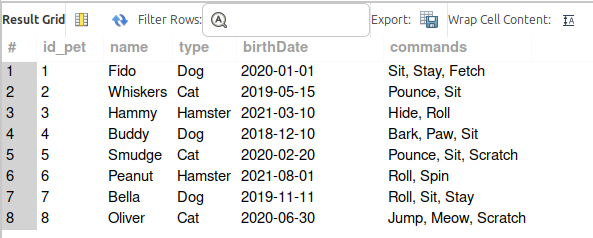
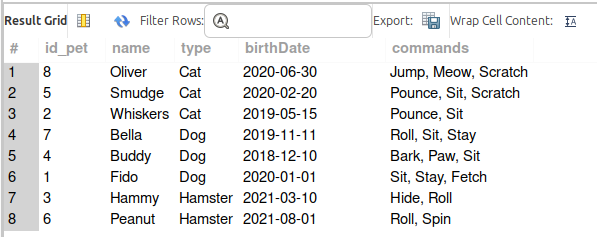
modified:   OOP_MySQL.md 	modified:   image/MySQL/1.png 	modified:   image/MySQL/2.png

diff --git a/OOP_MySQL.md b/OOP_MySQL.md
@@ -26,19 +26,19 @@ USE Human_Friends;
 
 DROP TABLE IF EXISTS Type_Pets;
 CREATE TABLE Type_Pets(
-	id_type_pet INT PRIMARY KEY AUTO_INCREMENT NOT NULL,
+    id_type_pet INT PRIMARY KEY AUTO_INCREMENT NOT NULL,
     type_name VARCHAR(45)
 );
 
 DROP TABLE IF EXISTS Commands_Pets;
 CREATE TABLE Commands_Pets(
-	id_command_pet INT PRIMARY KEY AUTO_INCREMENT NOT NULL,
+    id_command_pet INT PRIMARY KEY AUTO_INCREMENT NOT NULL,
     command_name VARCHAR(45)
 );
 
 DROP TABLE IF EXISTS Pets;
 CREATE TABLE Pets(
-	id_pet INT PRIMARY KEY AUTO_INCREMENT NOT NULL,
+    id_pet INT PRIMARY KEY AUTO_INCREMENT NOT NULL,
     pet_name VARCHAR(45),
     id_type_pet INT NOT NULL,
     birthDate DATE NOT NULL,
@@ -47,7 +47,7 @@ CREATE TABLE Pets(
 
 DROP TABLE IF EXISTS PetsAndComands;
 CREATE TABLE PetsAndComands(
-	id_pet INT NOT NULL,
+    id_pet INT NOT NULL,
     id_command_pet INT NOT NULL,
     PRIMARY KEY (id_pet, id_command_pet), 
     FOREIGN KEY (id_pet) REFERENCES Pets(id_pet),
@@ -59,26 +59,26 @@ CREATE TABLE PetsAndComands(
 
 DROP TABLE IF EXISTS Type_Pack;
 CREATE TABLE Type_Pack(
-	id_type_pack INT PRIMARY KEY AUTO_INCREMENT NOT NULL,
+    id_type_pack INT PRIMARY KEY AUTO_INCREMENT NOT NULL,
     type_name VARCHAR(45)
 );
 
 DROP TABLE IF EXISTS Commands_Pack;
 CREATE TABLE Commands_Pack(
-	id_command_pack INT PRIMARY KEY AUTO_INCREMENT NOT NULL,
+    id_command_pack INT PRIMARY KEY AUTO_INCREMENT NOT NULL,
     command_name VARCHAR(45)
 );
 
 DROP TABLE IF EXISTS PackAndComands;
 CREATE TABLE PackAndComands(
-	id_packs INT NOT NULL,
+    id_packs INT NOT NULL,
     id_commands_packs INT NOT NULL,
     PRIMARY KEY (id_packs, id_commands_packs)
 );
 
 DROP TABLE IF EXISTS Pack_Animals;
 CREATE TABLE Pack_Animals(
-	id_pack INT PRIMARY KEY AUTO_INCREMENT NOT NULL,
+    id_pack INT PRIMARY KEY AUTO_INCREMENT NOT NULL,
     pack_name VARCHAR(45),
     id_type_pack INT,
     birthDate DATE,
@@ -87,7 +87,6 @@ CREATE TABLE Pack_Animals(
 ```
 
 ```
-
 /*
 ***********************************************************************
 Заполнить таблицы данными о животных, их командах и датами рождения.
@@ -129,17 +128,22 @@ VALUES
 (7, 10), (7, 12), (7, 8), 
 (8, 5), (8, 9), (8, 4);
 
-SELECT 
-	p.id_pet,
-    p.pet_name AS 'name',
-    tp.type_name AS 'type',
-    p.birthDate AS birthDate,
-    GROUP_CONCAT(cp.command_name SEPARATOR ', ') AS commands
-FROM Pets AS p
-LEFT JOIN PetsAndComands AS pc ON pc.id_pet=p.id_pet
-LEFT JOIN Type_Pets AS tp ON tp.id_type_pet=p.id_type_pet
-LEFT JOIN Commands_Pets AS cp ON cp.id_command_pet=pc.id_command_pet
-GROUP BY p.id_pet;
+DROP VIEW IF EXISTS view_Pets;
+CREATE VIEW view_Pets AS
+    SELECT 
+        p.id_pet,
+        p.pet_name AS 'name',
+        tp.type_name AS 'type',
+        p.birthDate AS birthDate,
+        GROUP_CONCAT(cp.command_name SEPARATOR ', ') AS commands
+    FROM Pets AS p
+    LEFT JOIN PetsAndComands AS pc ON pc.id_pet=p.id_pet
+    LEFT JOIN Type_Pets AS tp ON tp.id_type_pet=p.id_type_pet
+    LEFT JOIN Commands_Pets AS cp ON cp.id_command_pet=pc.id_command_pet
+    GROUP BY p.id_pet
+    ORDER BY tp.type_name, p.pet_name;
+
+SELECT * FROM view_Pets;
 ```
 ![Заполнение таблиц для типа животных "Pets"](image/MySQL/1.png)
 
@@ -180,8 +184,12 @@ VALUES
 (7, 10), (7, 6), (7, 5), 
 (8, 11), (8, 8);
 
+
+DROP VIEW IF EXISTS view_Pack_Animals;
+
+CREATE VIEW view_Pack_Animals AS
 SELECT 
-	p.id_pack,
+    p.id_pack,
     p.pack_name AS 'name',
     tp.type_name AS 'type',
     p.birthDate AS birthDate,
@@ -190,7 +198,78 @@ FROM Pack_Animals AS p
 LEFT JOIN PackAndComands AS pc ON pc.id_pack=p.id_pack
 LEFT JOIN Type_Pack AS tp ON tp.id_type_pack=p.id_type_pack
 LEFT JOIN Commands_Pack AS cp ON cp.id_command_pack=pc.id_command_pack
-GROUP BY p.id_pack;
+GROUP BY p.id_pack
+ORDER BY tp.type_name, p.pack_name;
+
+SELECT * FROM view_Pack_Animals;
 ```
 
 ![Заполнение таблиц для типа животных "Pack_Animals"](image/MySQL/2.png)
+
+```
+/*
+***********************************************************************
+Удалить записи о верблюдах и объединить таблицы лошадей и ослов.
+***********************************************************************
+*/
+
+DELETE FROM Pack_Animals WHERE id_type_pack = 2;
+
+SELECT * FROM view_Pack_Animals;
+
+```
+
+![Удалить записи о верблюдах и объединить таблицы лошадей и ослов](image/MySQL/3.png)
+
+
+```
+/*
+*********************************************************************************************************
+Создать новую таблицу для животных в возрасте от 1 до 3 лет и вычислить их возраст с точностью до месяца.
+*********************************************************************************************************
+*/
+
+DROP TABLE IF EXISTS Age_animals;
+
+CREATE TABLE Age_animals(
+	SELECT 
+		name, type, birthDate, commands, 
+		CONCAT(
+			TIMESTAMPDIFF(YEAR, birthDate, NOW()), ' years, ',
+			TIMESTAMPDIFF(MONTH, birthDate, NOW()) % 12, ' months')  AS age 
+    FROM view_Pack_Animals 
+		WHERE TIMESTAMPDIFF(YEAR, birthDate, NOW()) IN (1, 2, 3)
+    UNION
+    SELECT 
+		name, type, birthDate, commands, 
+		CONCAT(
+			TIMESTAMPDIFF(YEAR, birthDate, NOW()), ' years, ',
+			TIMESTAMPDIFF(MONTH, birthDate, NOW()) % 12, ' months')  AS age 
+  	FROM view_Pets 
+		WHERE TIMESTAMPDIFF(YEAR, birthDate, NOW()) IN (1, 2, 3)    
+);
+SELECT * FROM Age_animals ORDER BY type, name;
+```
+
+![Создать новую таблицу для животных в возрасте от 1 до 3 лет](image/MySQL/4.png)
+
+
+```
+/*
+*********************************************************************************************************
+Объединить все созданные таблицы в одну, сохраняя информацию о принадлежности к исходным таблицам.
+*********************************************************************************************************
+*/
+
+DROP VIEW IF EXISTS view_all_animals;
+
+ CREATE VIEW view_all_animals AS
+	SELECT * FROM view_Pack_Animals 
+    UNION ALL
+    SELECT * FROM view_Pets
+    ORDER BY name;
+
+SELECT * FROM view_all_animals;
+```
+
+![Объединить все созданные таблицы в одну](image/MySQL/5.png)
